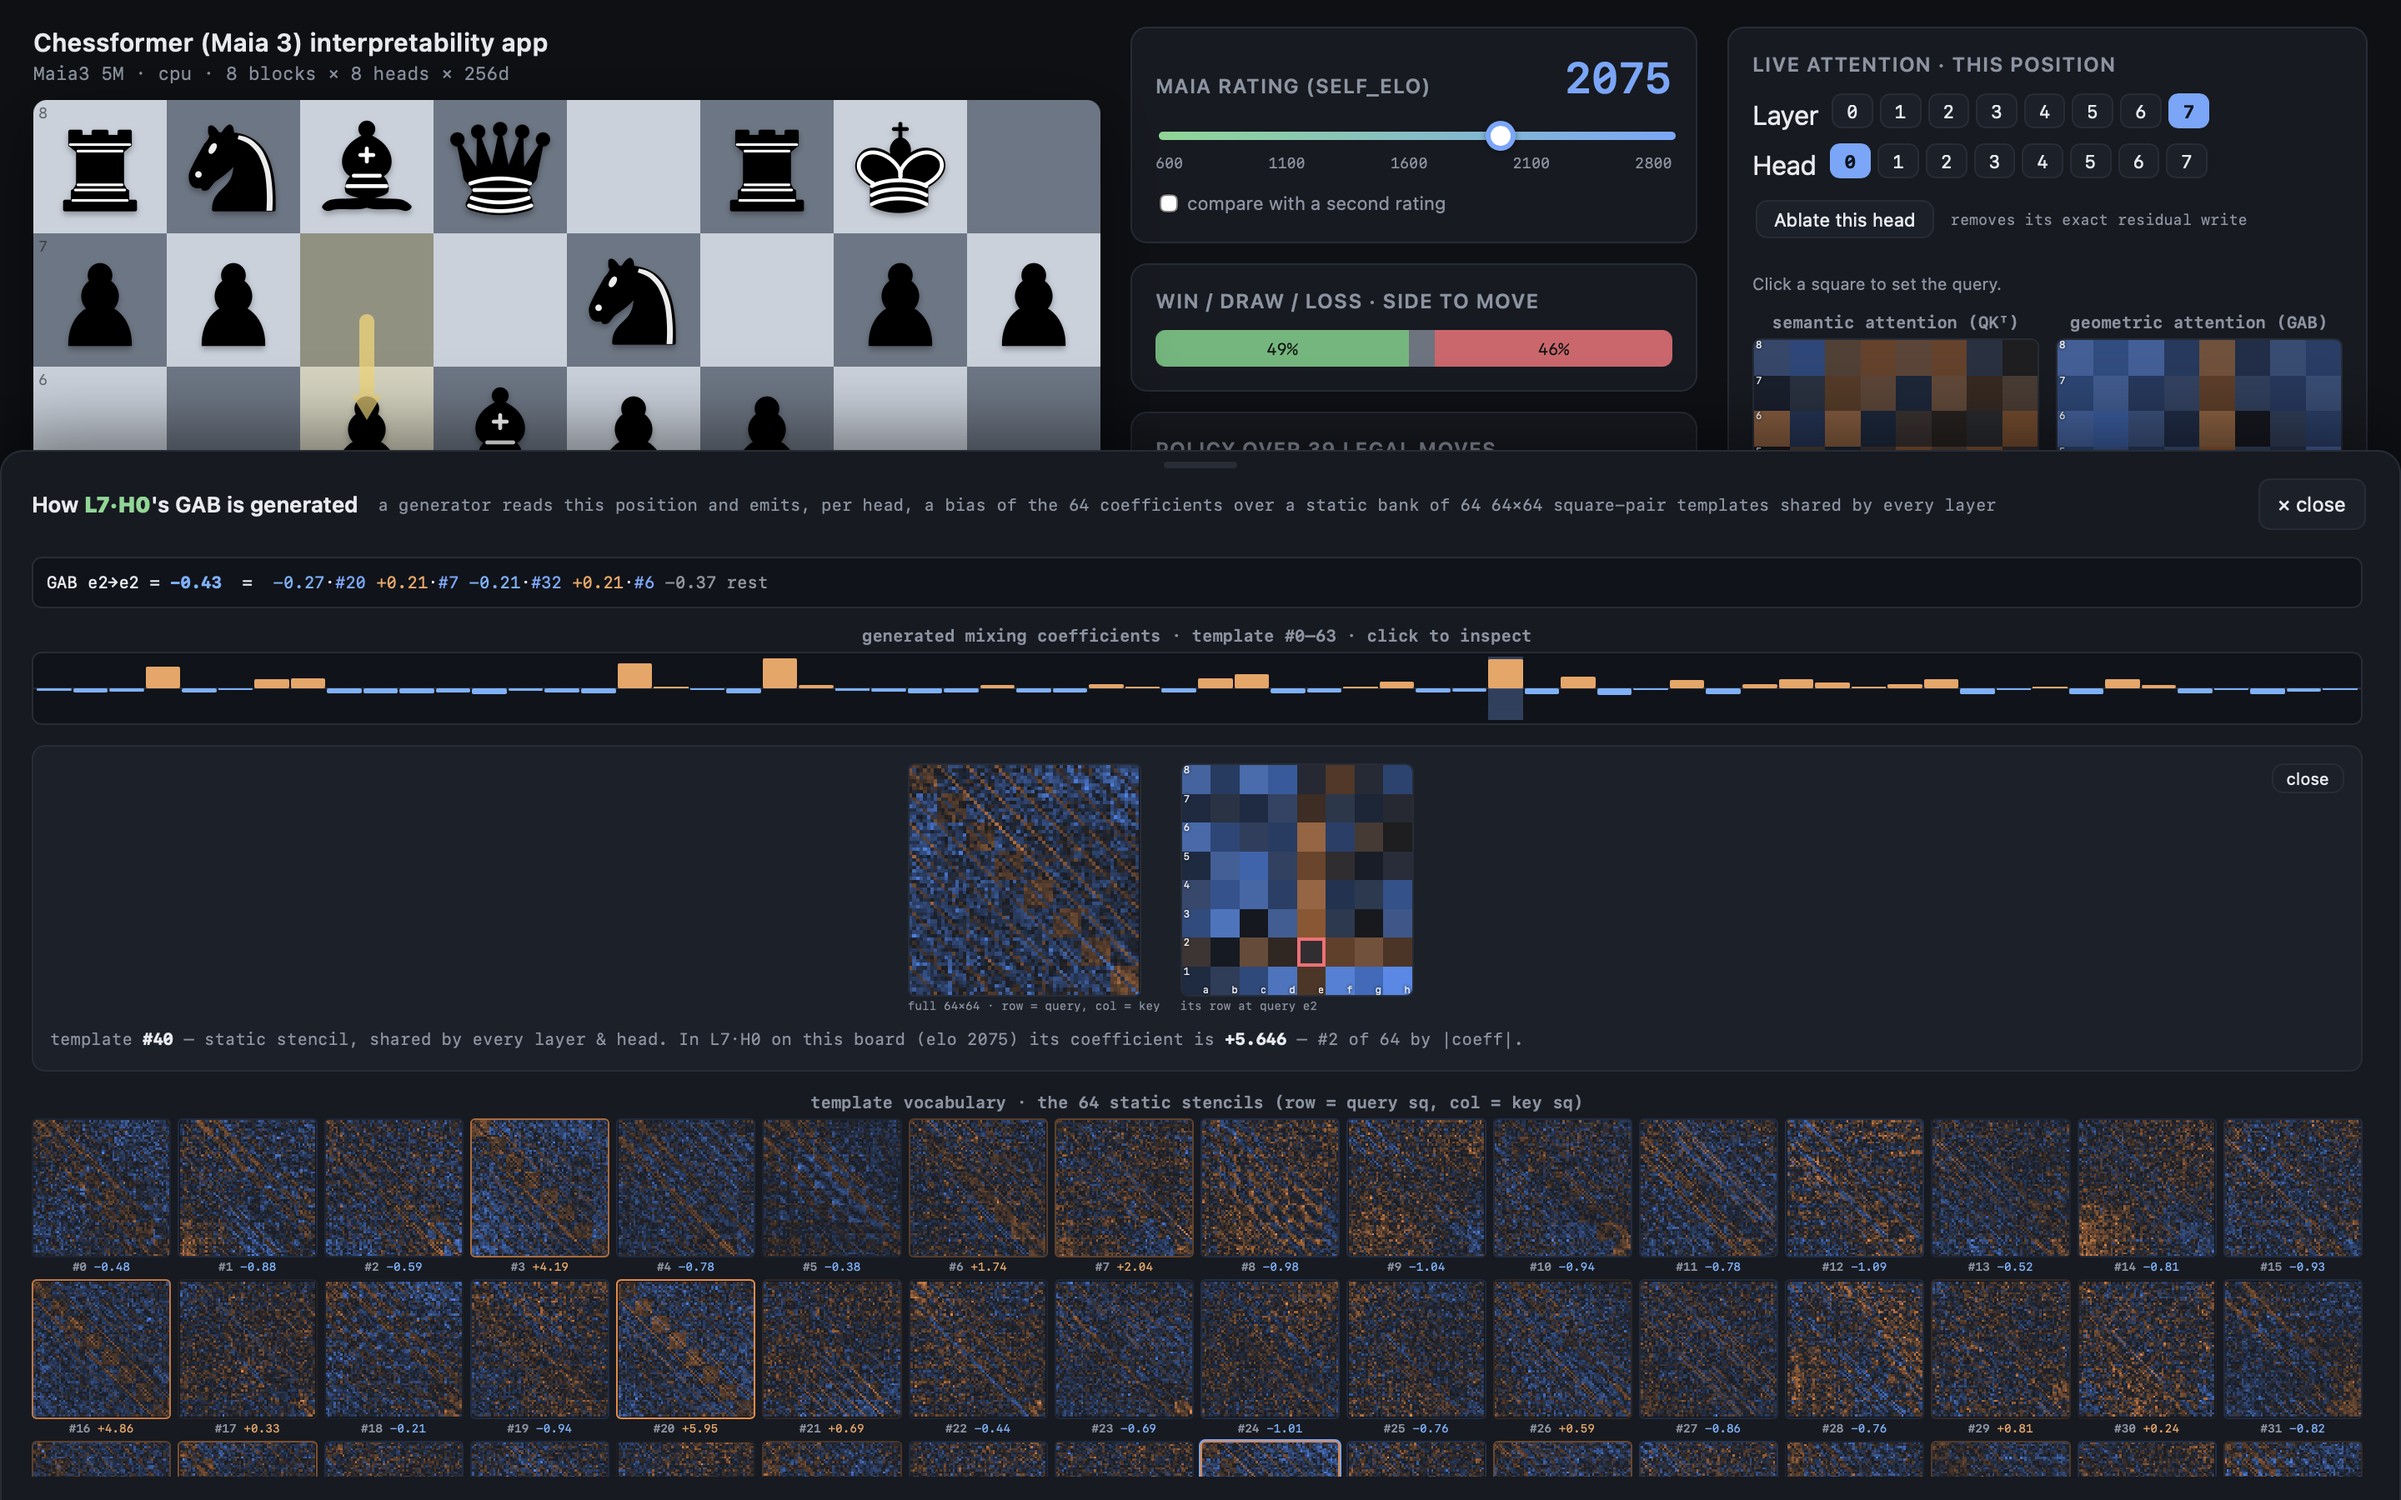
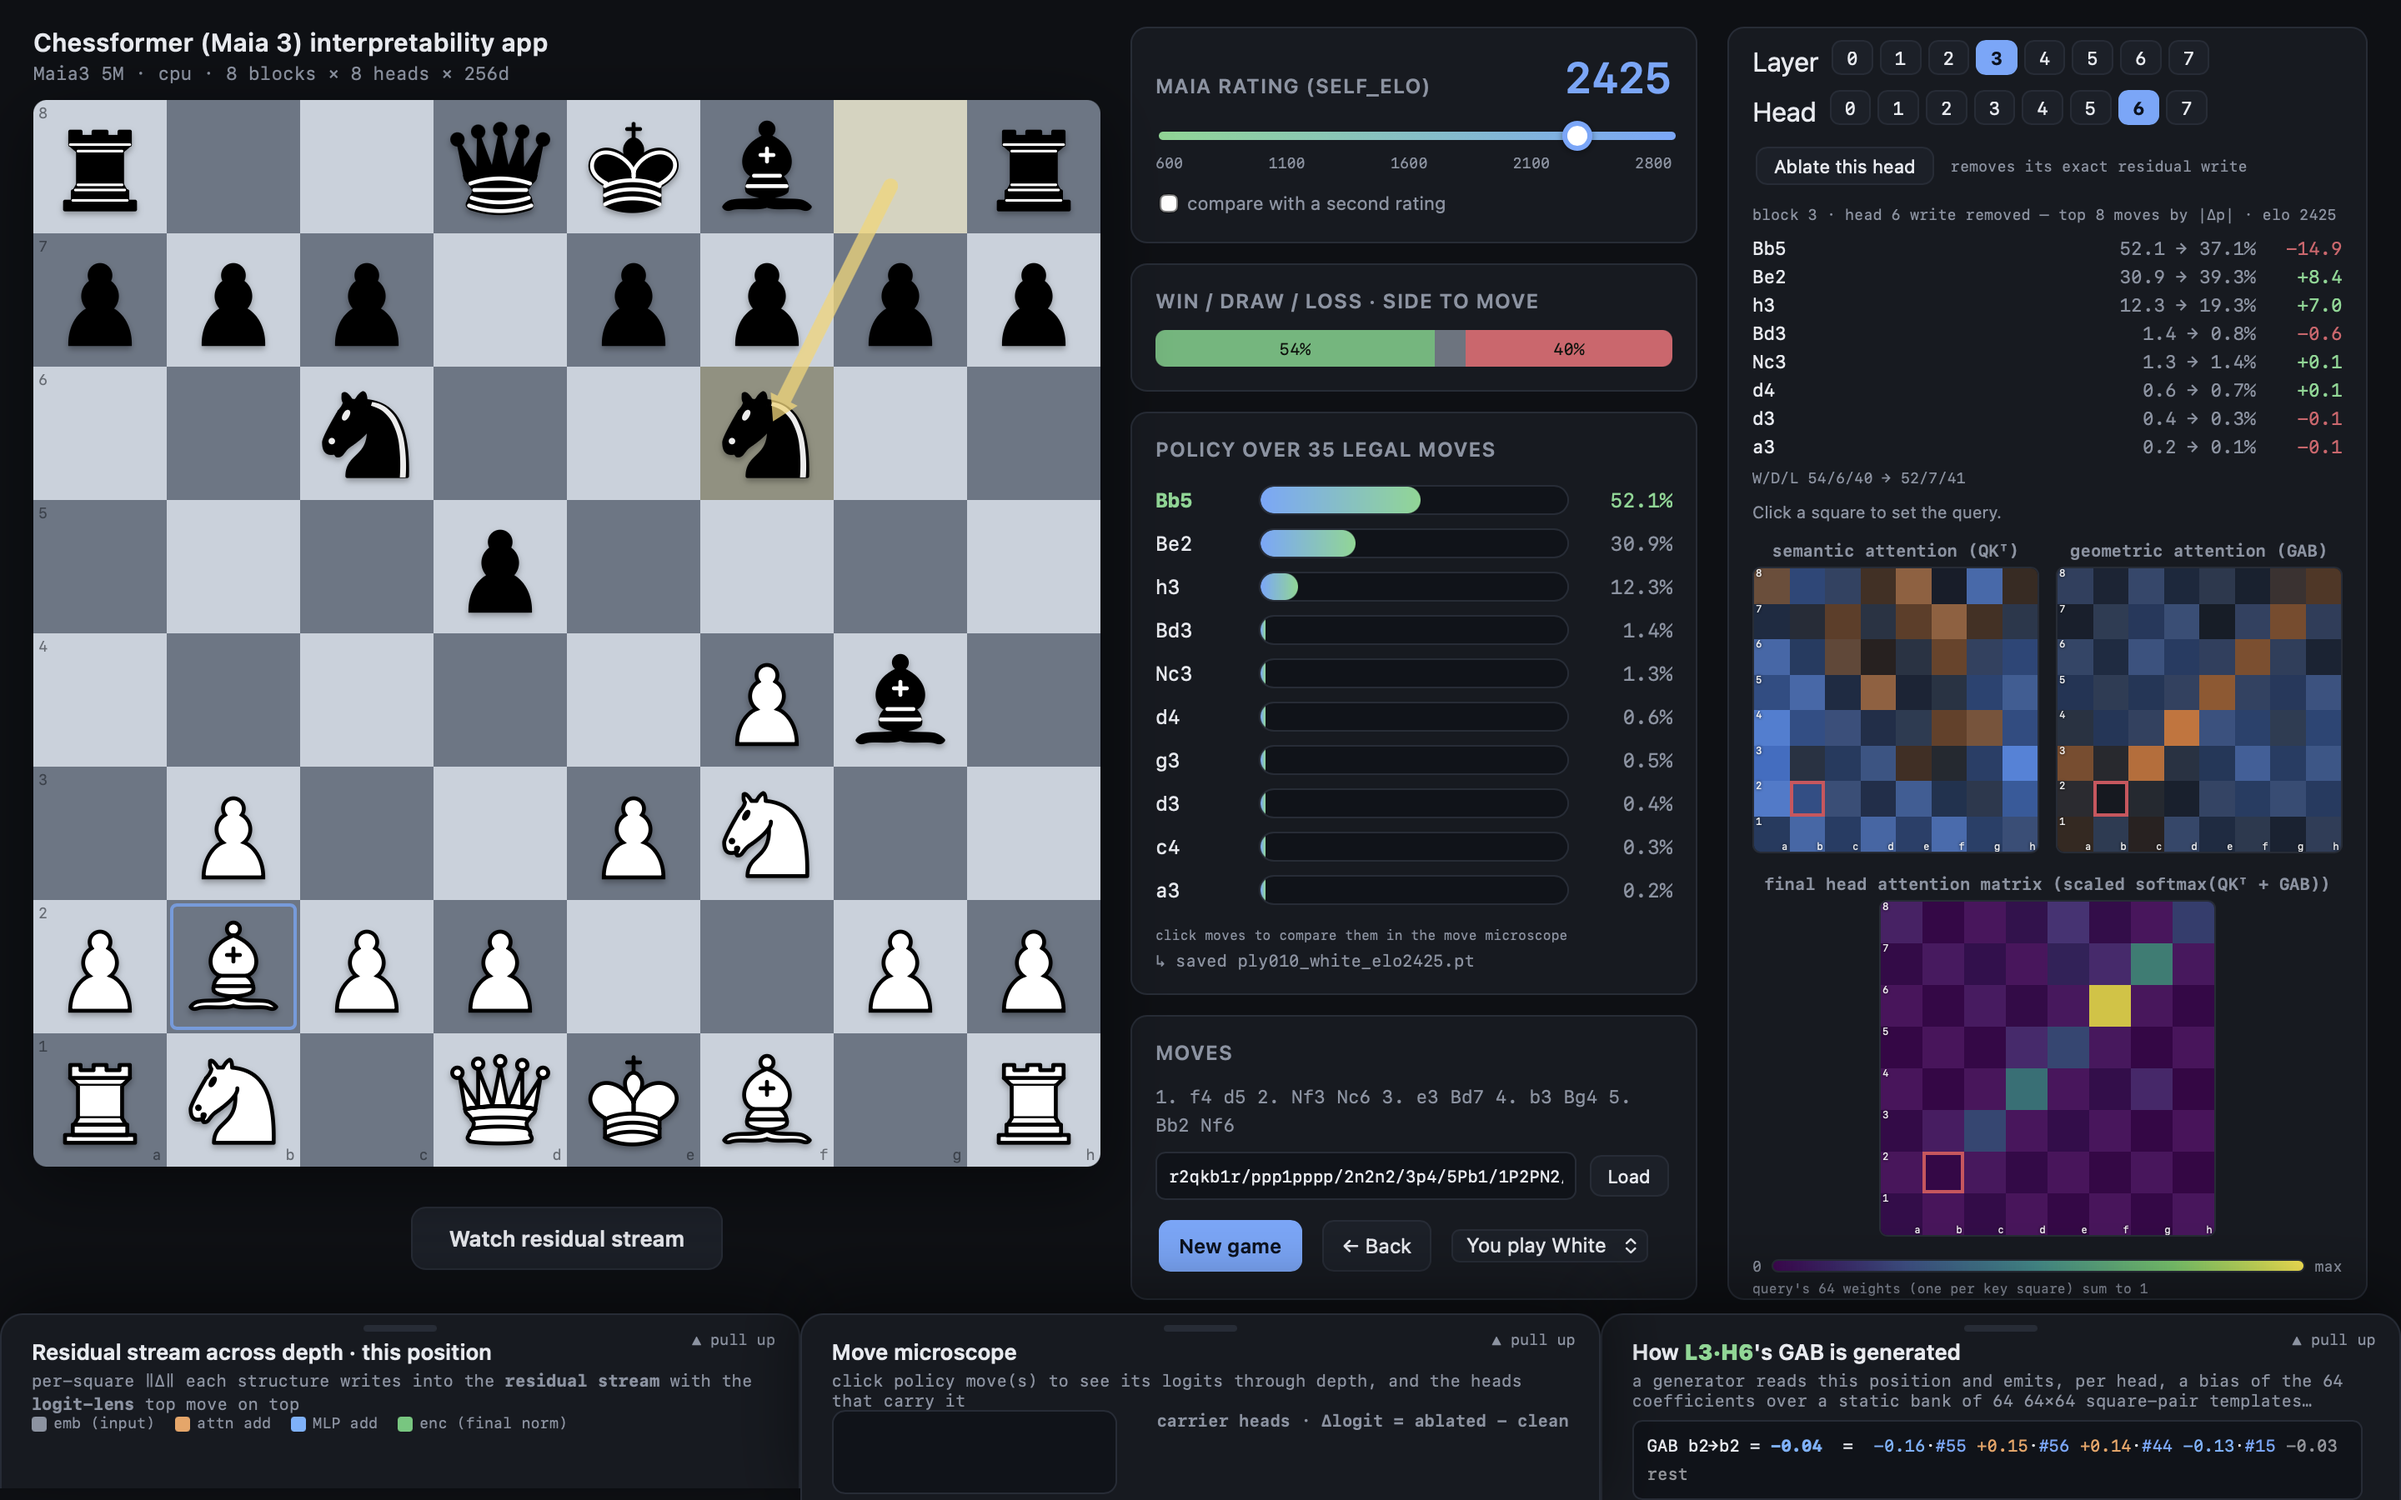
Move planning notes out of README; ignore NOTES.md

diff --git a/README.md b/README.md
@@ -2,6 +2,8 @@
 
 This toolkit+visualizer is designed for mech interp researchers working with chess models that use transformers tokenized by square.
 
+Since starting to do interpretability work on chess models, I was struck by a serious lack of infrastructure. I could hardly find a decent GUI to display general UCI reading engines. So, I decided to build an interface both for interactive visualization and serious mech interp functionality, especially inspired by Neel Nanda's fantastic transformer_lens library.
+
 ![Hero Image](Screenshots/Screenshot1.png)
 
 Chess tranformers are good interp subjects because **[copy from paper]**
@@ -78,7 +80,7 @@ Under it is the `Maia rating (self_elo)` slider: 600-2800, step 25, default 1500
 Under that it is the scrollable ranked list: `Policy over N legal moves`. 
 
 There is a `compare with a second rating` checkbox which reveals a `second rating` slider
-(default 1100). Setting it makes the policy rows become paired blue/green bars showing the compared policy and evaluation. ![alt text](Screenshots/Screenshot7.png)This second rating does not affect the attention or GAB or residual panel app features.
+(default 1100). Setting it makes the policy rows become paired blue/green bars showing the compared policy and evaluation. This second rating does not affect the attention or GAB or residual panel app features.
 
 **Take the Model Apart**
 Get the `Live attention · this position`, with `Layer` and `Head` chip rows.
@@ -88,13 +90,13 @@ Click a square to set the query for the three boards, labeled:
 -`final head attention matrix (scaled softmax(QKᵀ + GAB))`
 `Ablate this head` (its note: `removes its exact residual write`) gives the top 8 moves by |Δp|.
 ![alt text](Screenshots/Screenshot2.png)
-Unique to the app and Maia-3, hover over any attention square and the GAB drawer decomposes that square pair live, with every head clickable to open that template.
-
+Unique to the app and Maia-3, hover over any attention square and the GAB drawer decomposes that square pair live, with every head clickable to open that template:
+![alt text](Screenshots/Screenshot8.png)
  
 **The Three Drawers**
-![alt text](Screenshots/Screenshot2.png)
 ![alt text](Screenshots/Screenshot4.png)
-![alt text](Screenshots/Screenshot5.png)
+![alt text](Screenshots/Screenshot5.png)+![alt text](Screenshots/Screenshot3.png)
+![alt text](Screenshots/Screenshot6.png)
 One open at a time, each peeking at the bottom with a `▲ pull up` grip, `Escape` closes.
 
 · `Residual stream across depth · this position` — creates a filmstrip of mini
@@ -257,50 +259,9 @@ Chess piece artwork is python-chess's built-in "cburnett" set
 - Max-activating positions per head: feed many boards, show what most excites the selected head.
 - Linear probes
 - Skill-acquisition plot highlight which heads shift most between 600 and 2800 on the same position and more interpretability across a skill axis experiments.
-
-## How to ship:
-The key split is square-token vs text-token transformers. Lc0-BT and MAIA-3 are in one family; DeepMind's model, Chess-GPT, and Allie are in the other. 
-Leela chess is extremely popular and worth making also work.
-
-Weights conversion — Lc0 ships .pb networks; you'd convert to PyTorch (community converters/ONNX exports exist, but this is the grindiest step).
-Smolgen — Lc0 adds a learned per-position attention bias. Your GAB/QK geometry-vs-semantics decomposition would need a third additive term (and honestly, "does smolgen play the GAB role?" is itself a publishable comparison).
-Lens placement — pre-LN vs post-LN changes where the "running residual" readout points sit and whether you apply the final norm before decoding.
-Skill panels — Elo conditioning is Maia-specific; the adapter flag lets those panels grey out rather than break.
-My take: worth doing, and specifically worth doing as MAIA-3 + one Lc0-BT backend rather than full generality — two backends force the right abstraction without over-engineering. It also upgrades your "tool + dataset release" row from "MAIA-3 visualizer" to "the lens for square-token chess transformers," which is a much stronger citable artifact — and the natural justification for the chessformer_lens name.
-
-
-Give them a citeable object. Tools get cited when there's a clean BibTeX target — an arXiv writeup, a JOSS paper (Journal of Open Source Software exists precisely for this), or minimally a Zenodo DOI for the release. Without one, the best case is a footnoted GitHub URL. TransformerLens has a citation entry for exactly this reason.
-CITATION.cff in the repo → GitHub renders a "Cite this repository" button and auto-generates the BibTeX. Five minutes, real effect.
-In-tool nudge — README + a one-line "if you use this in published work, please cite …" (some tools print it on import). Standard and effective.
-
-
-The three objects, ranked by effort vs. payoff
-1. Zenodo DOI — the minimum viable citation (~15 min, do at first functional release)
-This is the floor, and notably it's the route TransformerLens itself uses — its canonical citation is a software/Zenodo-style DOI via CITATION.cff, not a journal paper. Mechanics:
-
-Log into zenodo.org with your GitHub account.
-Zenodo → profile → GitHub tab → flip the toggle ON for the chessformer_lens repo. (This installs a webhook.)
-On GitHub, cut a release (tag v0.1.0). Zenodo catches the webhook, archives that tarball, and mints a DOI automatically.
-You get two DOIs: a concept DOI (always points to the newest version — cite this one) and a version DOI.
-Drop the concept DOI into CITATION.cff (doi: + identifiers:), and add a .zenodo.json to control author list / ORCID / license.
-Buys you: a permanent, versioned, BibTeX-able target the day you ship. Zero gatekeepers.
-
-2. JOSS — the real prize for a tool like this (free peer review → paper DOI)
-The Journal of Open Source Software exists precisely for research software, review happens openly on a GitHub issue, and — given your __init__ describes a genuinely interactive visualizer (live policy/attention, ELO slider, click-to-ablate, GAB template decomposition) — this is a strong JOSS fit, not a stretch. Requirement gates you must clear first:
-
-OSI license ✅ (MIT, done)
-Feature-complete & non-trivial — JOSS explicitly rejects skeletons/"in progress"; rule of thumb is substantial scholarly effort (~3+ months / ~1k LOC). Your extracted MAIA-3 harness clears this; 0.0.1 does not.
-Docs: install + usage + API reference
-Tests + CI
-A paper.md (metadata header + 250–1000-word summary + a "Statement of need") and a paper.bib
-Submit → reviewers walk a public checklist → on acceptance you get a Crossref DOI and a short citeable paper. Timeline: weeks to a couple months.
-
-3. arXiv — where the interp audience actually reads (do alongside JOSS)
-A short writeup — either a standalone tool paper or, better, the fork-results paper that features the tool (results paper cites the tool; both get read). One gotcha: as a first-time cs.LG/cs.AI submitter you likely need an endorsement (arXiv's anti-spam — an existing author in that category vouches for you). ***REMOVED***  Not peer-reviewed, but the de-facto BibTeX target in ML. You can post to arXiv and JOSS; they don't conflict.
-
-I SHOULD REACH OUT TO NEEL NANDA FOR ADVICE ON CHESSFORMER_LENS!
-
-Also the pyOpenSci community — they do peer review and mentorship for scientific Python packages and are explicitly friendly to first-timers. This is arguably a better fit than JOSS-first, and pyOpenSci-reviewed packages can then go to JOSS with much of the work done.
-
-Also a single competent research-software engineer for a few hours of paid or favor-based pairing beats a famous advisor for this specific task. This is genuinely the kind of thing where one good afternoon with someone who's shipped a Python package gets you 80% there.
+- **Add the next engine functionality: Leela Lc0-BT**: 
+     - How to: Lc0 ships .pb networks; you'd convert to PyTorch (community converters/ONNX exports exist, but this is the grindiest step).
+     Smolgen — Lc0 adds a learned per-position attention bias. GAB/QK geometry-vs-semantics decomposition would need a third additive term ("does smolgen play the GAB role?" may be a publishable comparison).
+     Lens placement — pre-LN vs post-LN changes where the "running residual" readout points sit and whether you apply the final norm before decoding.
+     Skill panels — Elo conditioning is Maia-specific; the adapter flag lets those panels grey out rather than break.
 
